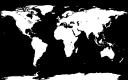
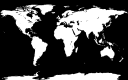
Updated transformer to match LEGO projection more accurrately + Update Readme Files

diff --git a/map_generator/lego_projection_transformer_builder.py b/map_generator/lego_projection_transformer_builder.py
@@ -39,18 +39,18 @@ class LegoProjectionTransformerBuilder:
                 'latitude_range_start': -60.0,
                 'latitude_range_stop': -57.0,
                 'canvas_range_start': CanvasUnit.from_px(70).pt,
-                'canvas_range_stop': CanvasUnit.from_px(67).pt,
+                'canvas_range_stop': CanvasUnit.from_px(66.5).pt,
             },
             {
                 'latitude_range_start': -57.0,
                 'latitude_range_stop': 86.0,
-                'canvas_range_start': CanvasUnit.from_px(67).pt,
-                'canvas_range_stop': CanvasUnit.from_px(4).pt,
+                'canvas_range_start': CanvasUnit.from_px(66.5).pt,
+                'canvas_range_stop': CanvasUnit.from_px(3.5).pt,
             },
             {
                 'latitude_range_start': 86.0,
                 'latitude_range_stop': 90.0,
-                'canvas_range_start': CanvasUnit.from_px(4).pt,
+                'canvas_range_start': CanvasUnit.from_px(3.5).pt,
                 'canvas_range_stop': CanvasUnit.from_px(0).pt,
             }
         ]
